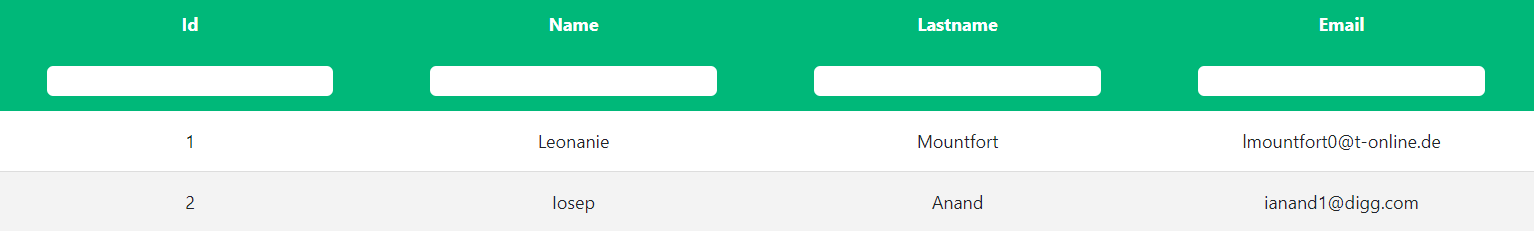
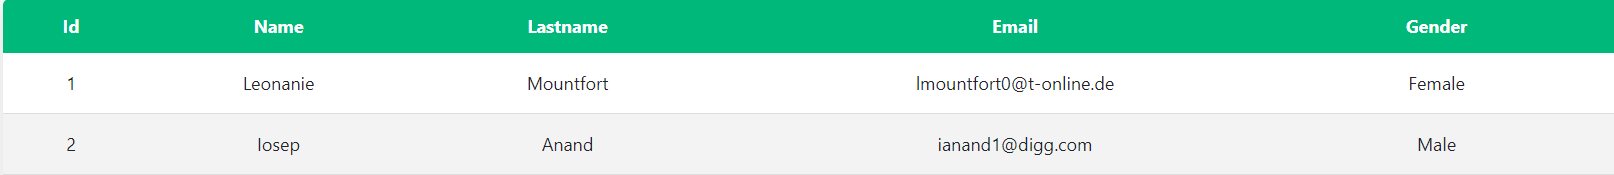
images changed

diff --git a/example/src/App.js b/example/src/App.js
@@ -45,7 +45,7 @@ const App = () => {
         </select>
       </div>
     </div>
-    <ReactFlexyTable data={data} sortable={sortable} filterable={filterable} caseSensitive={caseSensivite} additionalCols={additionalCols} nonFilterCols={["gender"]}
+    <ReactFlexyTable data={data} sortable={sortable} filterable={filterable} caseSensitive={caseSensivite} additionalCols={additionalCols}
     />
   </div>
 }
